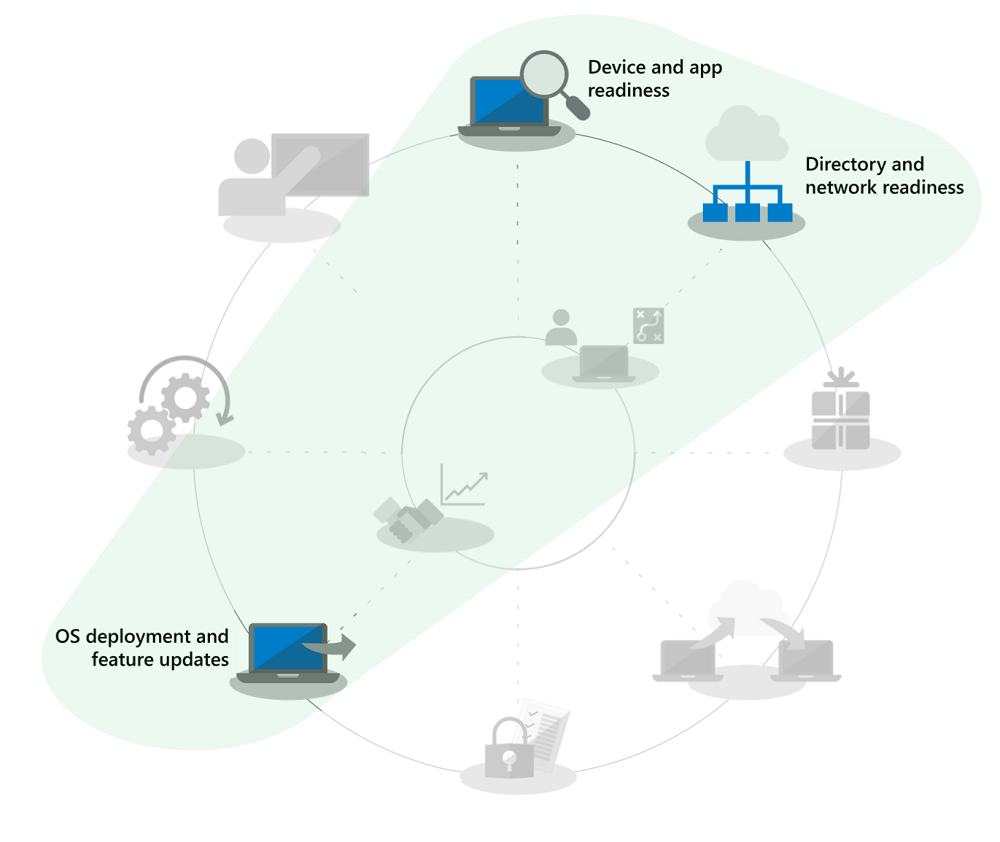
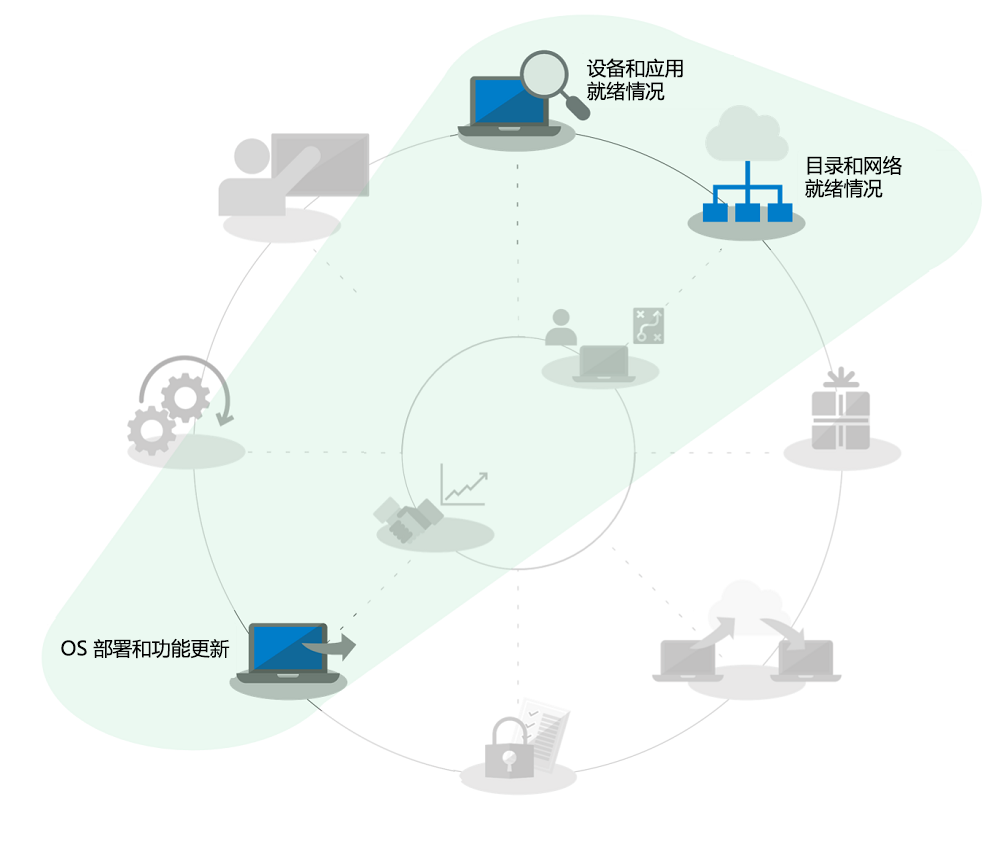
commit translated contents

Changed region(s): [[0.062, 0.7411, 0.248, 0.8029], [0.806, 0.1853, 0.961, 0.247], [0.589, 0.0618, 0.713, 0.1235]]

diff --git a/microsoft-365/enterprise/modern-desktop-deployment-and-management-lab.md b/microsoft-365/enterprise/modern-desktop-deployment-and-management-lab.md
@@ -13,18 +13,18 @@ ms.collection:
 - Strat_O365_Enterprise
 ms.custom: ''
 description: 了解有关 Windows 和 Office 部署实验室工具包的信息，以及访问的位置。
-ms.openlocfilehash: c056aba81edc079f0577dea8d4ef535d7e6cc32a
-ms.sourcegitcommit: a84cf473bc61a7bb1cfca221cf435e0a418305b2
+ms.openlocfilehash: ba1cd7e88766b6393bafcbd7381ceeb98f030d51
+ms.sourcegitcommit: 03828f954b9dddb265f867fa508178ec0d4a6aeb
 ms.translationtype: HT
 ms.contentlocale: zh-CN
-ms.lasthandoff: 07/05/2019
-ms.locfileid: "35576502"
+ms.lasthandoff: 07/08/2019
+ms.locfileid: "35584528"
 ---
 # <a name="windows-and-office-deployment-lab-kit"></a>Windows 和 Office 部署实验室工具包
 
 这些可下载的实操实验室着重于 Windows 10 部署和 Office 365 部署，以及相关的配置和管理注意事项后期部署。强烈建议正在为 Windows 7 生命周期的结束做准备的组织进行此培训，但该培训同样适用于当前使用 Windows 10 和 Office 365 增强版或 Office 2019 的用户。其中包含有关 Windows 10、Office 365 专业增强版、企业移动性 + 安全性和相关产品和服务的指南。
 
-这些实验室旨在帮助您规划、 测试和验证运行 Windows 10 企业版和 Office 365 专业增强版台式计算机的部署和管理。 实验室涵盖“桌面部署”轮中概述的步骤和工具，包括 System Center Configuration Manager、Windows Analytics、Office Customization Tool、OneDrive、Windows Autopilot 等。
+这些实验室旨在帮助您规划、 测试和验证运行 Windows 10 企业版和 Office 365 专业增强版台式计算机的部署和管理。 实验室涵盖“桌面部署”轮中概述的步骤和工具，包括 System Center Configuration Manager、桌面分析、Office 自定义工具、OneDrive、Windows Autopilot 等。
 
 作为 Windows 10 和 Office 365 专业增强版的[桌面部署](http://www.aka.ms/howtoshift)过程的一部分，在开始探索部署工具更新和测试与部署相关的自动化时，建议首先生成沙盒或隔离的实验室环境。
 
@@ -60,7 +60,7 @@ ms.locfileid: "35576502"
 
 ### <a name="device-and-app-readiness"></a>**设备和应用就绪情况**
 
-  - Windows Analytics
+  - 桌面分析
   - Internet Explorer 的企业模式和企业模式网站列表
 
 ### <a name="directory-and-network-readiness"></a>**目录和网络就绪情况**
